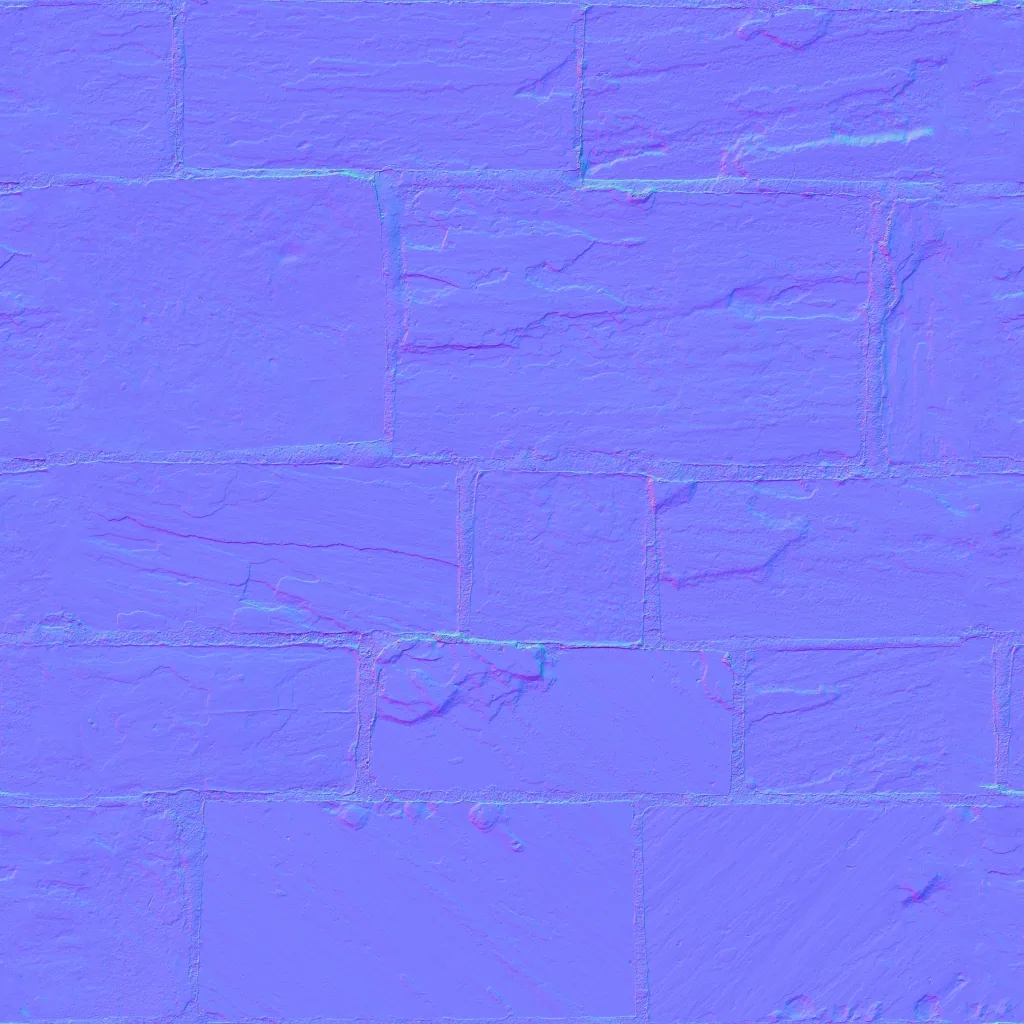
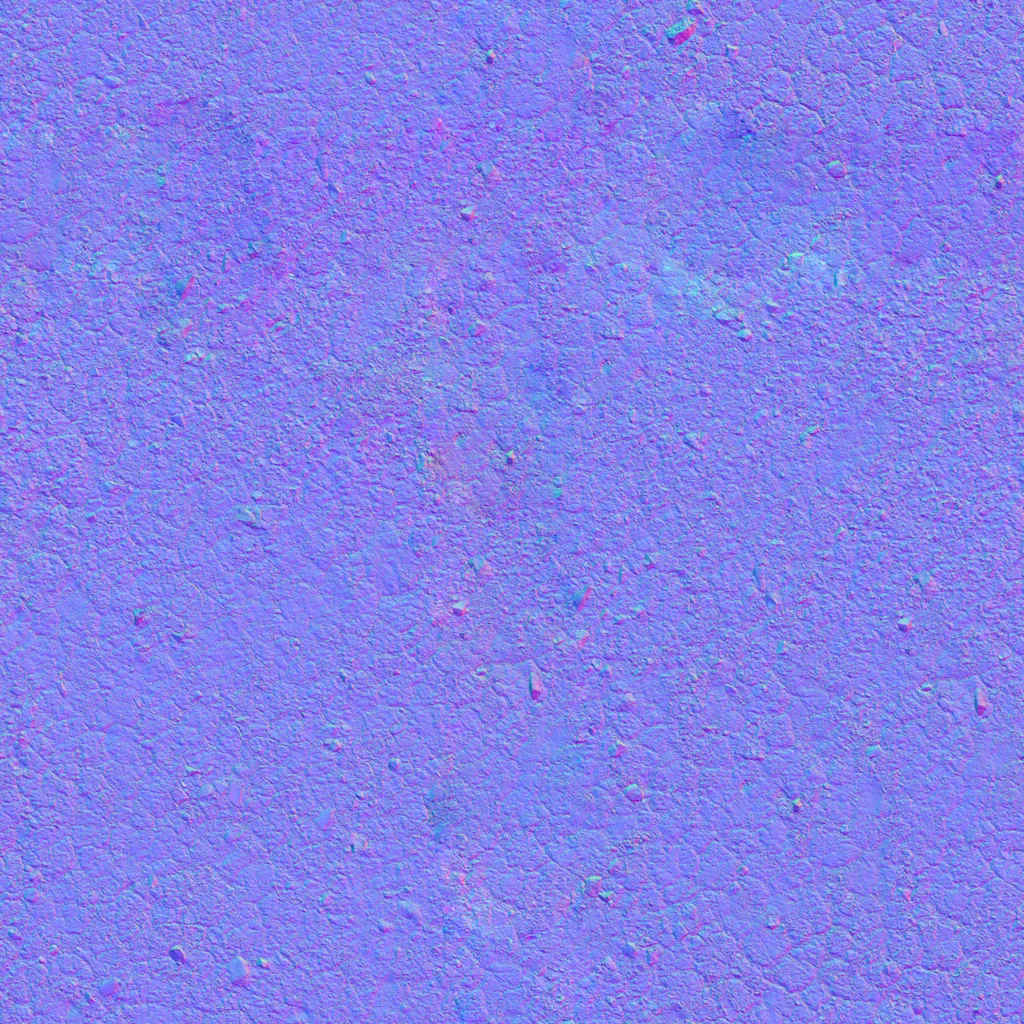
Board: temple theme ground is now dusty rocky earth (CC0 dry_ground_rocks) instead of the brick-like pavement

diff --git a/src/client/board/boardTheme.ts b/src/client/board/boardTheme.ts
@@ -51,7 +51,7 @@ export interface BoardTheme {
 export const BOARD_THEMES: Record<BoardThemeId, BoardTheme> = {
   temple: {
     id: 'temple', label: 'Temple ruins',
-    ground: { stem: 'temple', mean: [102, 89, 75], tint: '#ad9f8c', tileInches: 14, macroA: '#85755a', macroB: '#4a4033', macroStrength: 0.35, gain: 1.2, normalScale: 1.5, roughness: 0.95, mix2: 0.8, mix3: 0.4, fallback: '#6a5e50' },
+    ground: { stem: 'temple', mean: [149, 115, 78], tint: '#b8a68c', tileInches: 20, macroA: '#85755a', macroB: '#4a4033', macroStrength: 0.35, gain: 1.0, normalScale: 1.2, roughness: 0.95, mix2: 0.8, mix3: 0.4, fallback: '#6a5e50' },
     frame: { colour: '#241f19', rim: '#6a5a3c' },
     table: { tint: '#9a8a78', gain: 0.8 },
     sky: { top: '#17202e', horizon: '#6b5636', floor: '#14110d', glow: '#ffb765', fog: '#2c2418', fogNear: 70, fogFar: 150 },

diff --git a/public/assets/CREDITS.md b/public/assets/CREDITS.md
@@ -8,7 +8,7 @@ No attribution is required by CC0; credited here as a courtesy.
 | --- | --- |
 | badlands | cracked_red_ground |
 | ash | burned_ground_01 |
-| temple | red_sandstone_pavement |
+| temple | dry_ground_rocks |
 | ice | snow_02 |
 
 ## Terrain models (public/assets/terrain)
